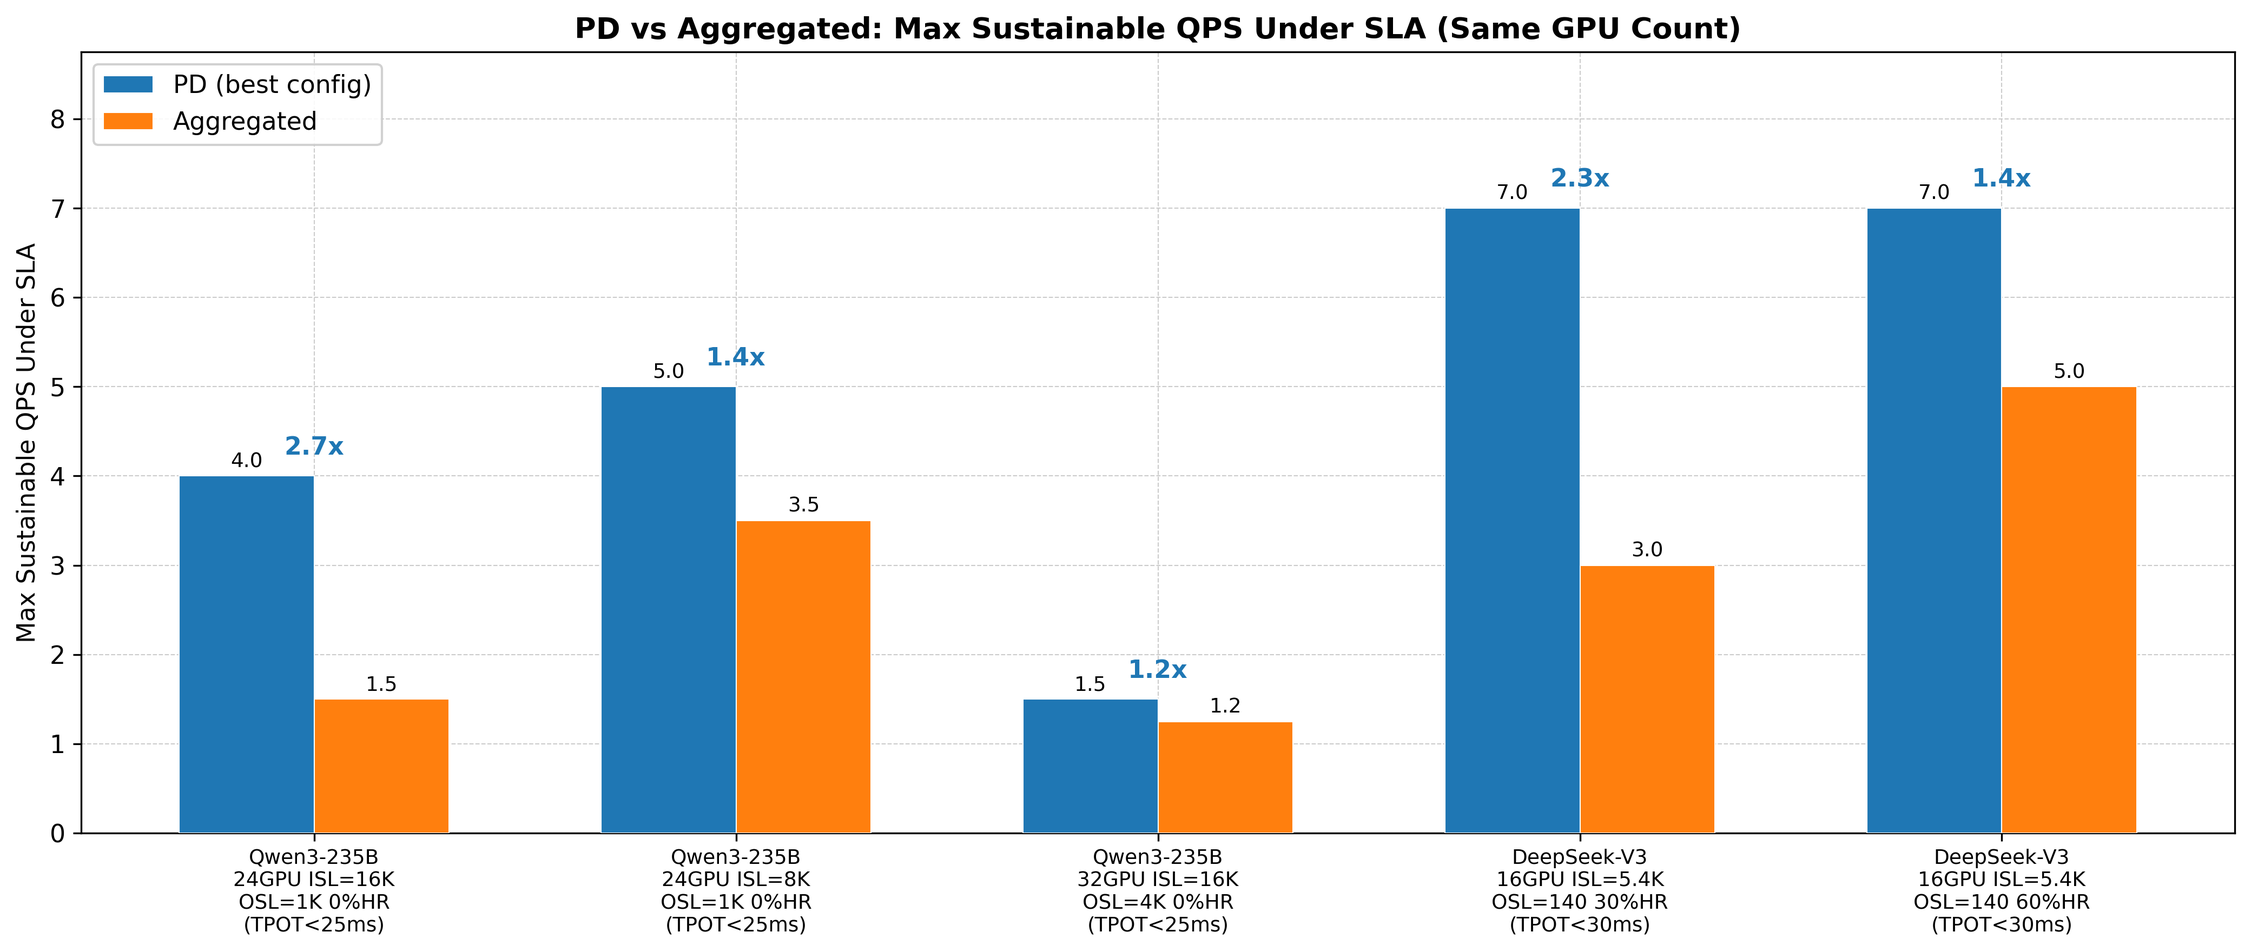
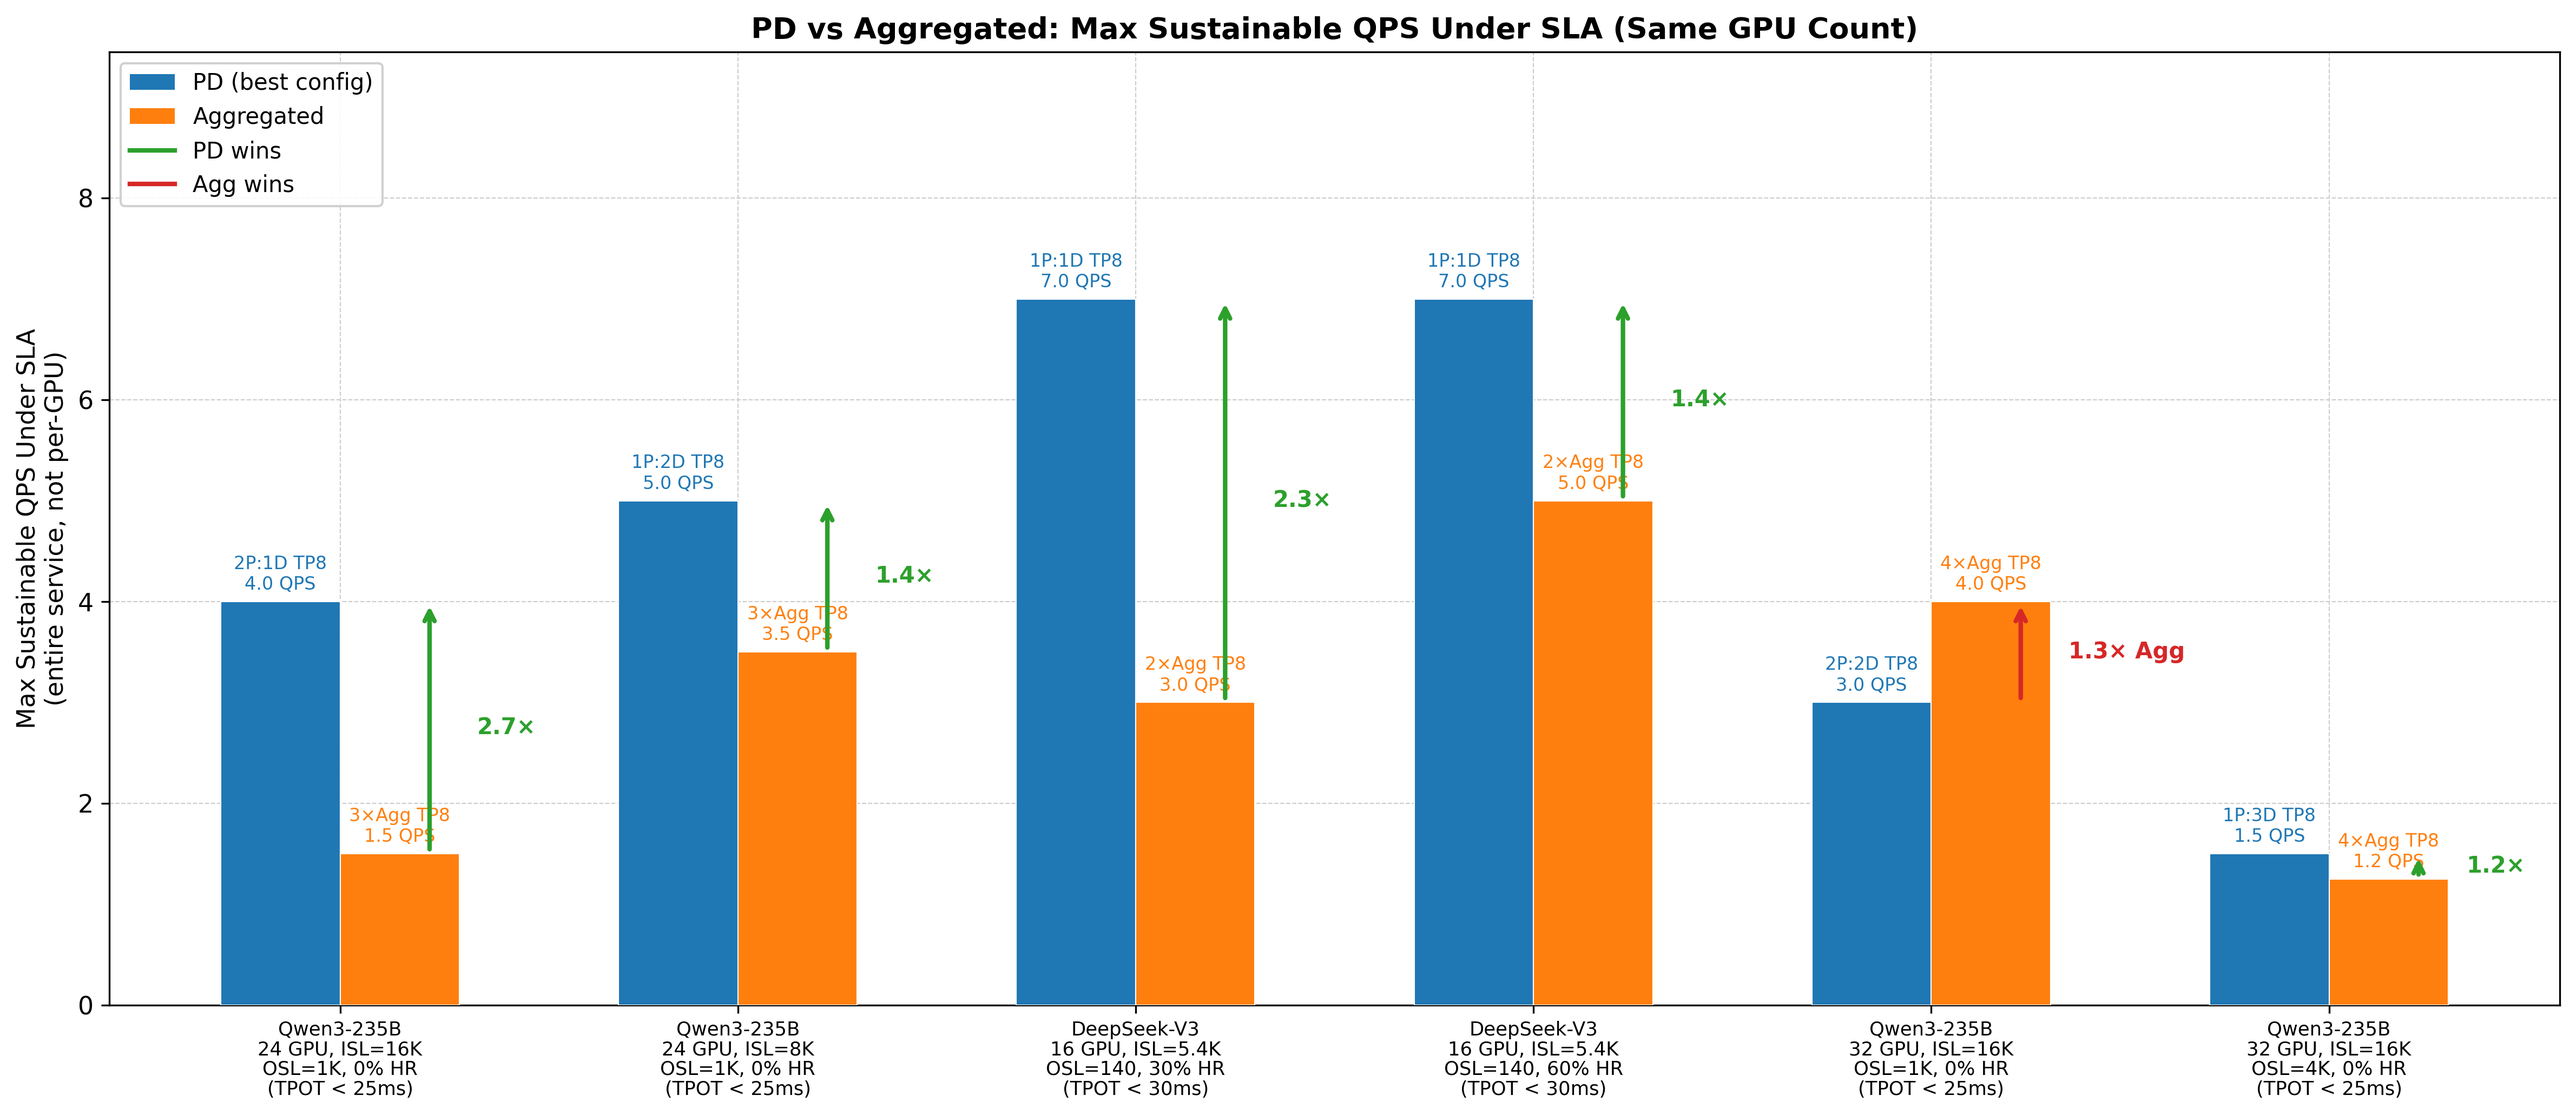
Redesign hero chart: clear configs, PD-loses cases, colored arrows
- Each bar now labeled with exact config (e.g., "2P:1D TP8", "3×Agg TP8")
- Y-axis clarified as "entire service, not per-GPU"
- Added 2 scenarios where Agg wins (32 GPU ISL=16K, 32 GPU OSL=4K)
- Green arrows with multiplier for PD wins, red arrows for Agg wins
- 6 scenarios total: 4 PD wins (1.2x-2.7x), 2 Agg wins

diff --git a/scripts/generate_blog_charts.py b/scripts/generate_blog_charts.py
@@ -42,49 +42,115 @@ MARKER_AGG = "s"
 # Figure 1 — Hero Bar Chart: QPS Capacity Under SLA
 # ===================================================================
 def fig1_hero_bar():
-    # Qwen scenarios use TPOT < 25ms SLA (where PD advantage shows on current stack)
-    # DeepSeek scenarios use TPOT < 30ms SLA (from cai-anyscale-collab study)
-    scenarios = [
-        "Qwen3-235B\n24GPU ISL=16K\nOSL=1K 0%HR\n(TPOT<25ms)",
-        "Qwen3-235B\n24GPU ISL=8K\nOSL=1K 0%HR\n(TPOT<25ms)",
-        "Qwen3-235B\n32GPU ISL=16K\nOSL=4K 0%HR\n(TPOT<25ms)",
-        "DeepSeek-V3\n16GPU ISL=5.4K\nOSL=140 30%HR\n(TPOT<30ms)",
-        "DeepSeek-V3\n16GPU ISL=5.4K\nOSL=140 60%HR\n(TPOT<30ms)",
+    # Each scenario: (label, pd_config, pd_qps, agg_config, agg_qps, sla)
+    # QPS = max sustainable QPS for the ENTIRE SERVICE (not per-GPU)
+    data = [
+        {
+            "label": "Qwen3-235B\n24 GPU, ISL=16K\nOSL=1K, 0% HR",
+            "sla": "TPOT < 25ms",
+            "pd_config": "2P:1D TP8", "pd_qps": 4.0,
+            "agg_config": "3×Agg TP8", "agg_qps": 1.5,
+        },
+        {
+            "label": "Qwen3-235B\n24 GPU, ISL=8K\nOSL=1K, 0% HR",
+            "sla": "TPOT < 25ms",
+            "pd_config": "1P:2D TP8", "pd_qps": 5.0,
+            "agg_config": "3×Agg TP8", "agg_qps": 3.5,
+        },
+        {
+            "label": "DeepSeek-V3\n16 GPU, ISL=5.4K\nOSL=140, 30% HR",
+            "sla": "TPOT < 30ms",
+            "pd_config": "1P:1D TP8", "pd_qps": 7.0,
+            "agg_config": "2×Agg TP8", "agg_qps": 3.0,
+        },
+        {
+            "label": "DeepSeek-V3\n16 GPU, ISL=5.4K\nOSL=140, 60% HR",
+            "sla": "TPOT < 30ms",
+            "pd_config": "1P:1D TP8", "pd_qps": 7.0,
+            "agg_config": "2×Agg TP8", "agg_qps": 5.0,
+        },
+        {   # PD loses case: 32 GPU with enough Agg replicas
+            "label": "Qwen3-235B\n32 GPU, ISL=16K\nOSL=1K, 0% HR",
+            "sla": "TPOT < 25ms",
+            "pd_config": "2P:2D TP8", "pd_qps": 3.0,
+            "agg_config": "4×Agg TP8", "agg_qps": 4.0,
+        },
+        {   # PD loses case: high hit rate warm workload
+            "label": "Qwen3-235B\n32 GPU, ISL=16K\nOSL=4K, 0% HR",
+            "sla": "TPOT < 25ms",
+            "pd_config": "1P:3D TP8", "pd_qps": 1.5,
+            "agg_config": "4×Agg TP8", "agg_qps": 1.25,
+        },
     ]
-    pd_qps  = [4.0, 5.0, 1.5, 7.0, 7.0]
-    agg_qps = [1.5, 3.5, 1.25, 3.0, 5.0]
 
-    x = np.arange(len(scenarios))
-    width = 0.32
+    n = len(data)
+    x = np.arange(n)
+    width = 0.30
 
-    fig, ax = plt.subplots(figsize=(14, 6))
-    bars_pd  = ax.bar(x - width / 2, pd_qps,  width, color=COLOR_PD,
-                       edgecolor="white", linewidth=0.5, label="PD (best config)", zorder=3)
+    pd_qps = [d["pd_qps"] for d in data]
+    agg_qps = [d["agg_qps"] for d in data]
+
+    fig, ax = plt.subplots(figsize=(16, 7))
+
+    bars_pd = ax.bar(x - width / 2, pd_qps, width, color=COLOR_PD,
+                      edgecolor="white", linewidth=0.5, zorder=3)
     bars_agg = ax.bar(x + width / 2, agg_qps, width, color=COLOR_AGG,
-                       edgecolor="white", linewidth=0.5, label="Aggregated", zorder=3)
+                       edgecolor="white", linewidth=0.5, zorder=3)
 
-    # Annotate multiplier above each pair
-    for i in range(len(scenarios)):
+    # Label bars with config name + QPS value
+    for i, bar in enumerate(bars_pd):
+        ax.text(bar.get_x() + bar.get_width() / 2, bar.get_height() + 0.08,
+                f"{data[i]['pd_config']}\n{pd_qps[i]:.1f} QPS",
+                ha="center", va="bottom", fontsize=8, color=COLOR_PD,
+                fontweight="medium")
+    for i, bar in enumerate(bars_agg):
+        ax.text(bar.get_x() + bar.get_width() / 2, bar.get_height() + 0.08,
+                f"{data[i]['agg_config']}\n{agg_qps[i]:.1f} QPS",
+                ha="center", va="bottom", fontsize=8, color=COLOR_AGG,
+                fontweight="medium")
+
+    # Arrow + multiplier between each pair
+    for i in range(n):
         mult = pd_qps[i] / agg_qps[i]
-        top = max(pd_qps[i], agg_qps[i])
-        ax.text(x[i], top + 0.18, f"{mult:.1f}x",
-                ha="center", va="bottom", fontsize=11, fontweight="bold",
-                color=COLOR_PD)
+        pd_wins = mult >= 1.0
+        color = COLOR_WINNER if pd_wins else "#d62728"  # green or red
+        label = f"{mult:.1f}×" if pd_wins else f"{1/mult:.1f}× Agg"
 
-    # Annotate bar values
-    for bar in bars_pd:
-        ax.text(bar.get_x() + bar.get_width() / 2, bar.get_height() + 0.05,
-                f"{bar.get_height():.1f}", ha="center", va="bottom", fontsize=9)
-    for bar in bars_agg:
-        ax.text(bar.get_x() + bar.get_width() / 2, bar.get_height() + 0.05,
-                f"{bar.get_height():.1f}", ha="center", va="bottom", fontsize=9)
+        # Draw arrow from shorter bar to taller bar
+        lo = min(pd_qps[i], agg_qps[i])
+        hi = max(pd_qps[i], agg_qps[i])
+        mid_x = x[i]
+        arrow_x = mid_x + width * 0.75  # right of the bar pair
 
+        ax.annotate("", xy=(arrow_x, hi), xytext=(arrow_x, lo),
+                     arrowprops=dict(arrowstyle="->", color=color, lw=2.0,
+                                     shrinkA=2, shrinkB=2))
+        # Multiplier text next to arrow
+        mid_y = (lo + hi) / 2
+        ax.text(arrow_x + 0.12, mid_y, label,
+                ha="left", va="center", fontsize=10, fontweight="bold",
+                color=color)
+
+    # X-axis: scenario + SLA
+    labels = [f"{d['label']}\n({d['sla']})" for d in data]
     ax.set_xticks(x)
-    ax.set_xticklabels(scenarios, fontsize=9)
-    ax.set_ylabel("Max Sustainable QPS Under SLA")
-    ax.set_title("PD vs Aggregated: Max Sustainable QPS Under SLA (Same GPU Count)")
-    ax.legend(loc="upper left", fontsize=11)
-    ax.set_ylim(0, max(pd_qps) * 1.25)
+    ax.set_xticklabels(labels, fontsize=8.5, linespacing=1.1)
+
+    ax.set_ylabel("Max Sustainable QPS Under SLA\n(entire service, not per-GPU)", fontsize=11)
+    ax.set_title("PD vs Aggregated: Max Sustainable QPS Under SLA (Same GPU Count)",
+                  fontsize=13, fontweight="bold")
+
+    # Legend
+    from matplotlib.patches import Patch
+    from matplotlib.lines import Line2D
+    legend_elements = [
+        Patch(facecolor=COLOR_PD, label="PD (best config)"),
+        Patch(facecolor=COLOR_AGG, label="Aggregated"),
+        Line2D([0], [0], color=COLOR_WINNER, lw=2, label="PD wins"),
+        Line2D([0], [0], color="#d62728", lw=2, label="Agg wins"),
+    ]
+    ax.legend(handles=legend_elements, loc="upper left", fontsize=10)
+    ax.set_ylim(0, max(max(pd_qps), max(agg_qps)) * 1.35)
 
     plt.tight_layout()
     path = os.path.join(FIGURES_DIR, "fig_1_hero_bar.png")
